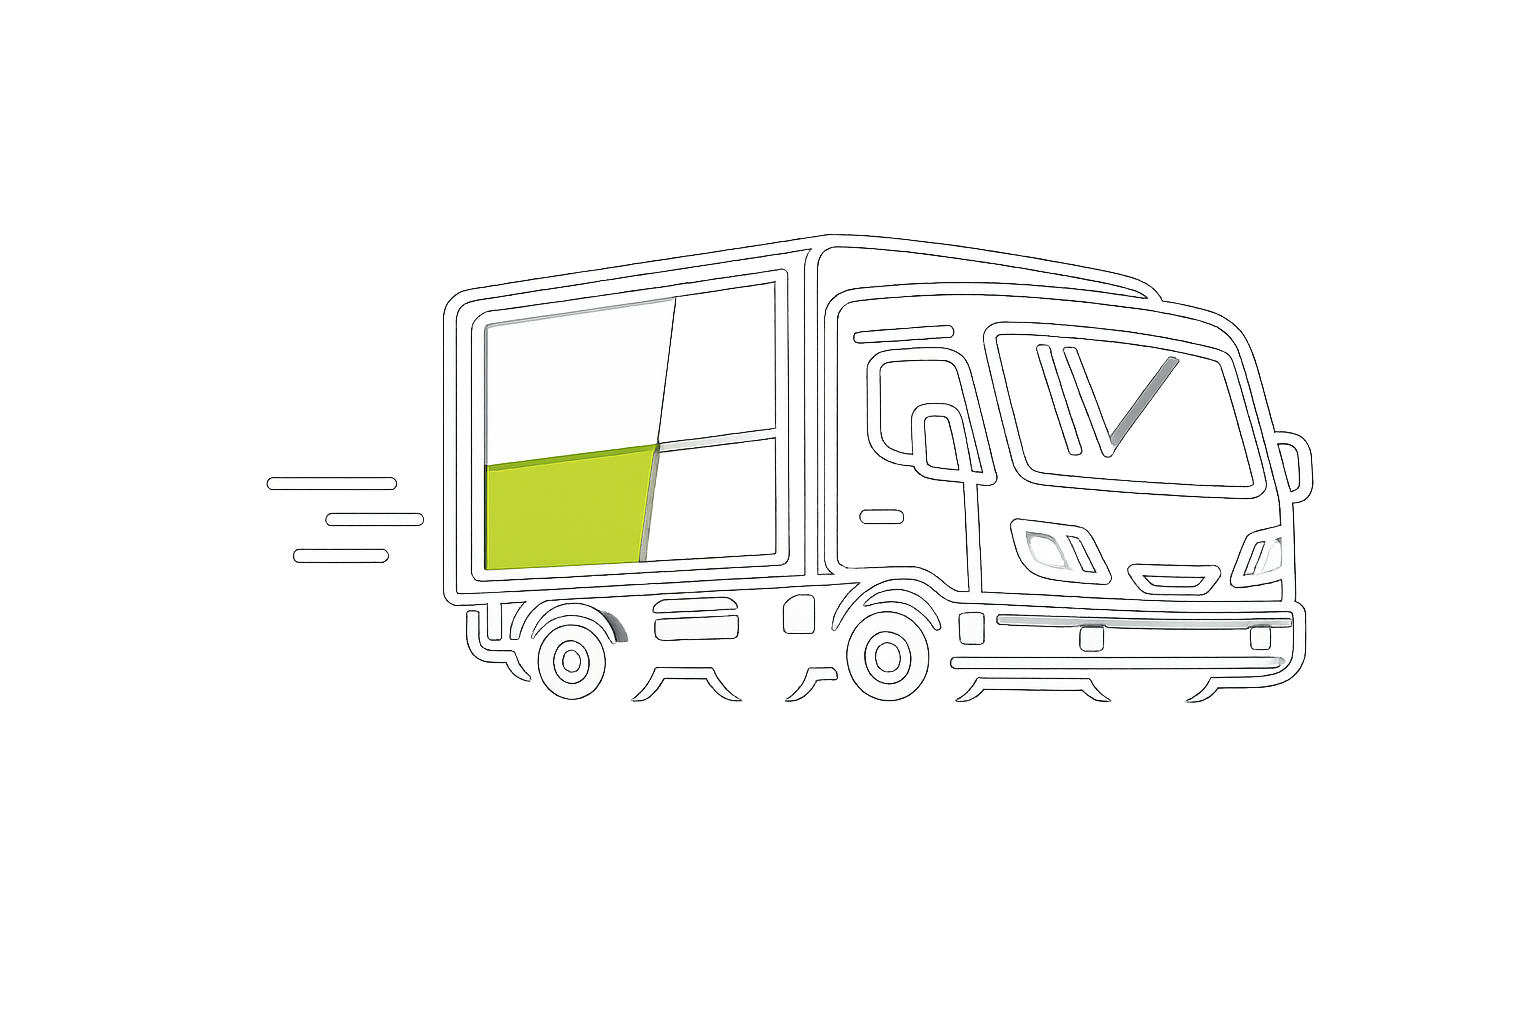
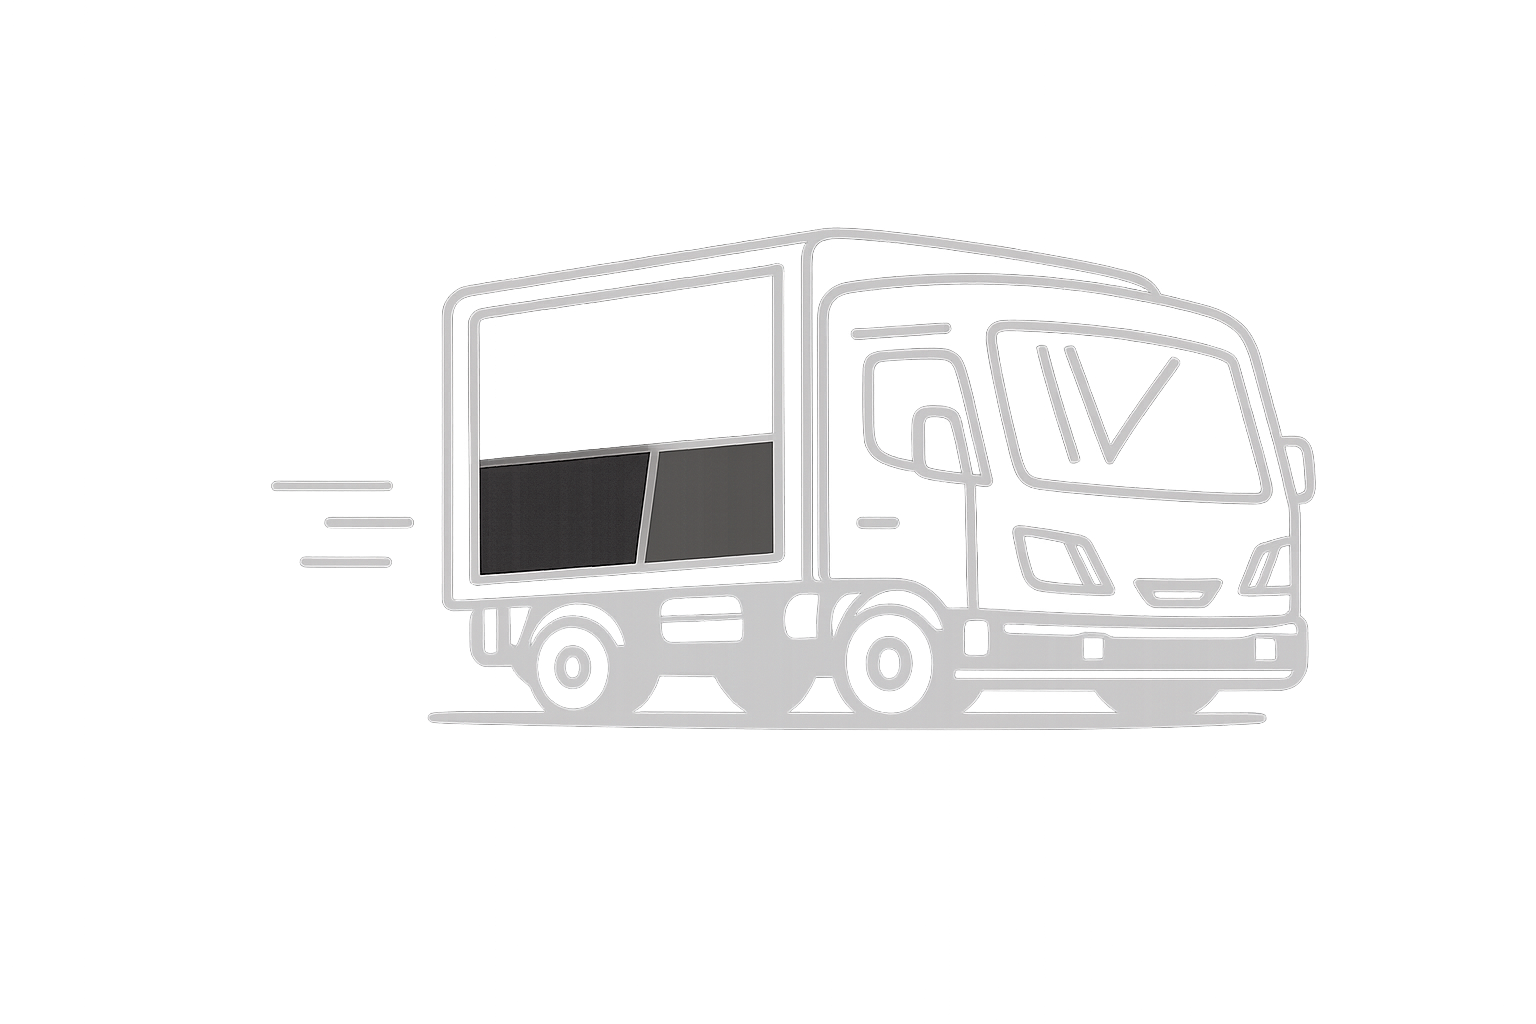
Add files via upload

Changed region(s): [[0.1562, 0.2188, 0.875, 0.7188]]

diff --git a/style.css b/style.css
@@ -146,7 +146,7 @@ body {
     display: flex;
     align-items: center;
     gap: 8px;
-    transform: translate(-10px, 5px);
+    transform: translate(-20px, 10px);
 }
 .sub-car-back-btn {
     position: fixed;
@@ -313,6 +313,7 @@ body {
     margin-right: 0px; 
     object-fit: contain;
     pointer-events: none;
+    transform: translate(-9px, -5px);
 }
 
 .banner-text {
